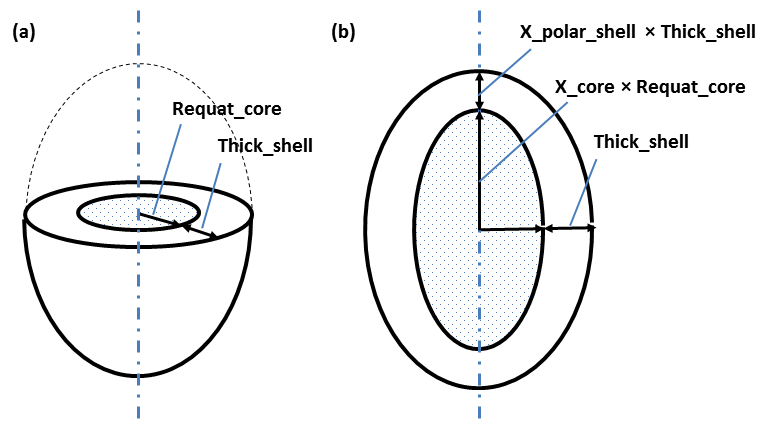
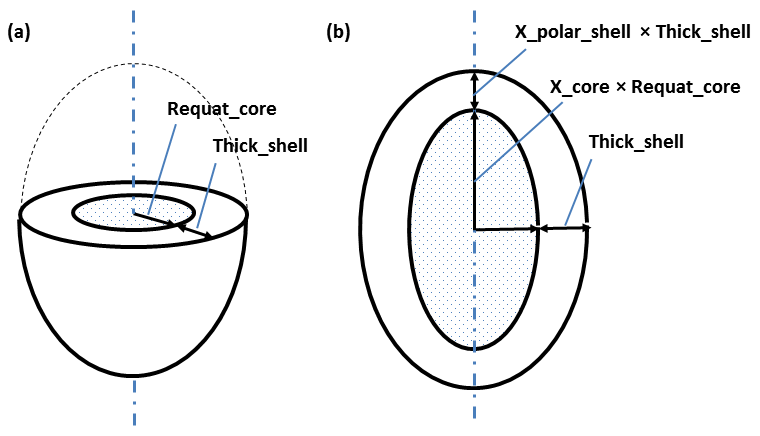
fixes for numref warnings in docu, new equations core_shell_bicelle core_shell_ellipsoid

diff --git a/sasmodels/models/core_shell_ellipsoid.py b/sasmodels/models/core_shell_ellipsoid.py
@@ -11,14 +11,14 @@ independent radii used in the original parameterization of this model.
 .. figure:: img/core_shell_ellipsoid_geometry.png
 
 The geometric parameters of this model are shown in the diagram above, which
-shows (a) a cross section of the circular equator and (b) a cross section through
+shows (a) a cut through at the circular equator and (b) a cross section through
 the poles, of a prolate ellipsoid.
 
 When *X_core < 1* the core is oblate; when *X_core > 1* it is prolate.
 *X_core = 1* is a spherical core.
 
 For a fixed shell thickness *XpolarShell = 1*, to scale the shell thickness
-pro-rata with the radius *XpolarShell = X_core*.
+pro-rata with the radius set or constrain *XpolarShell = X_core*.
 
 When including an $S(q)$, the radius in $S(q)$ is calculated to be that of
 a sphere with the same 2nd virial coefficient of the outer surface of the
@@ -32,6 +32,50 @@ If SAS data are in absolute units, and the SLDs are correct, then scale should
 be the total volume fraction of the "outer particle". When $S(q)$ is introduced
 this moves to the $S(q)$ volume fraction, and scale should then be 1.0,
 or contain some other units conversion factor (for example, if you have SAXS data).
+
+The calculation of intensity follows that for the solid ellipsoid, but with separate
+terms for the core-shell and shell-solvent boundaries.
+
+.. math::
+
+    P(q,\alpha) = \frac{\text{scale}}{V} F^2(q,\alpha) + \text{background}
+
+where
+
+.. math::
+    \begin{align}    
+    F(q,\alpha) = &f(q,radius\_equat\_core,radius\_equat\_core.x\_core,\alpha) \\
+    &+ f(q,radius\_equat\_core + thick\_shell,radius\_equat\_core.x\_core + thick\_shell.x\_polar\_shell,\alpha)
+    \end{align} 
+
+where
+ 
+.. math::
+
+    f(q,R_e,R_p,\alpha) = \frac{3 \Delta \rho V (\sin[qr(R_p,R_e,\alpha)]
+                - \cos[qr(R_p,R_e,\alpha)])}
+                {[qr(R_p,R_e,\alpha)]^3}
+
+and
+
+.. math::
+
+    r(R_e,R_p,\alpha) = \left[ R_e^2 \sin^2 \alpha
+        + R_p^2 \cos^2 \alpha \right]^{1/2}
+
+
+$\alpha$ is the angle between the axis of the ellipsoid and $\vec q$,
+$V = (4/3)\pi R_pR_e^2$ is the volume of the ellipsoid , $R_p$ is the polar radius along the
+rotational axis of the ellipsoid, $R_e$ is the equatorial radius perpendicular
+to the rotational axis of the ellipsoid and $\Delta \rho$ (contrast) is the
+scattering length density difference, either $(sld\_core - sld\_shell)$ or $(sld\_shell - sld\_solvent)$.
+
+For randomly oriented particles:
+
+.. math::
+
+   F^2(q)=\int_{0}^{\pi/2}{F^2(q,\alpha)\sin(\alpha)d\alpha}
+
 
 References
 ----------

diff --git a/sasmodels/models/core_shell_bicelle.py b/sasmodels/models/core_shell_bicelle.py
@@ -41,15 +41,16 @@ $\alpha$ is the angle between the $Q$ vector and the cylinder axis, to give:
 
     I(Q,\alpha) = \frac{\text{scale}}{V} \cdot
         F(Q,\alpha)^2 + \text{background}
+
 where
 
 .. math::
 
-    \begin{align}    
-    F(Q,\alpha) = &\frac{1}{V_t} \bigg[ 
-    (\rho_c - \rho_f) V_c \frac{J_1(QRsin \alpha)}{QRsin\alpha}\frac{2 \cdot QLcos\alpha}{QLcos\alpha} \\
-    &+(\rho_f - \rho_r) V_{c+f} \frac{J_1(QRsin\alpha)}{QRsin\alpha}\frac{2 \cdot Q(L+t_f)cos\alpha}{Q(L+t_f)cos\alpha} \\
-    &+(\rho_r - \rho_s) V_t \frac{J_1(Q(R+t_r)sin\alpha)}{Q(R+t_r)sin\alpha}\frac{2 \cdot Q(L+t_f)cos\alpha}{Q(L+t_f)cos\alpha}
+        \begin{align}    
+    F(Q,\alpha) = &\bigg[ 
+    (\rho_c - \rho_f) V_c \frac{J_1(QRsin \alpha)}{QRsin\alpha}\frac{2 \cdot sin(QLcos\alpha/2)}{QLcos\alpha} \\
+    &+(\rho_f - \rho_r) V_{c+f} \frac{J_1(QRsin\alpha)}{QRsin\alpha}\frac{2 \cdot sin(Q(L/2+t_f)cos\alpha)}{Q(L+2t_f)cos\alpha} \\
+    &+(\rho_r - \rho_s) V_t \frac{J_1(Q(R+t_r)sin\alpha)}{Q(R+t_r)sin\alpha}\frac{2 \cdot sin(Q(L/2+t_f)cos\alpha)}{Q(L+2t_f)cos\alpha}
     \bigg]
     \end{align} 
 
@@ -129,10 +130,10 @@ category = "shape:cylinder"
 # pylint: disable=bad-whitespace, line-too-long
 #             ["name", "units", default, [lower, upper], "type", "description"],
 parameters = [
-    ["radius",         "Ang",       20, [0, inf],    "volume",      "Cylinder core radius"],
+    ["radius",         "Ang",       80, [0, inf],    "volume",      "Cylinder core radius"],
     ["thick_rim",  "Ang",       10, [0, inf],    "volume",      "Rim shell thickness"],
     ["thick_face", "Ang",       10, [0, inf],    "volume",      "Cylinder face thickness"],
-    ["length",         "Ang",      400, [0, inf],    "volume",      "Cylinder length"],
+    ["length",         "Ang",      50, [0, inf],    "volume",      "Cylinder length"],
     ["sld_core",       "1e-6/Ang^2", 1, [-inf, inf], "sld",         "Cylinder core scattering length density"],
     ["sld_face",       "1e-6/Ang^2", 4, [-inf, inf], "sld",         "Cylinder face scattering length density"],
     ["sld_rim",        "1e-6/Ang^2", 4, [-inf, inf], "sld",         "Cylinder rim scattering length density"],

diff --git a/sasmodels/models/cylinder.py b/sasmodels/models/cylinder.py
@@ -13,13 +13,13 @@ given by (Guinier, 1955)
 
 .. math::
 
-    P(q,\alpha) = \frac{\text{scale}}{V} F^2(q) + \text{background}
+    P(q,\alpha) = \frac{\text{scale}}{V} F^2(q,\alpha) + \text{background}
 
 where
 
 .. math::
 
-    F(q) = 2 (\Delta \rho) V
+    F(q,\alpha) = 2 (\Delta \rho) V
            \frac{\sin \left(\tfrac12 qL\cos\alpha \right)}
                 {\tfrac12 qL \cos \alpha}
            \frac{J_1 \left(q R \sin \alpha\right)}{q R \sin \alpha}
@@ -30,9 +30,16 @@ radius of the cylinder, and $\Delta\rho$ (contrast) is the scattering length
 density difference between the scatterer and the solvent. $J_1$ is the
 first order Bessel function.
 
+For randomly oriented particles:
+
+.. math::
+
+    F^2(q)=\int_{0}^{\pi/2}{F^2(q,\alpha)\sin(\alpha)d\alpha}
+
+
 To provide easy access to the orientation of the cylinder, we define the
 axis of the cylinder using two angles $\theta$ and $\phi$. Those angles
-are defined in :numref:`cylinder-angle-definition`.
+are defined in :numref:`cylinder-angle-definition` .
 
 .. _cylinder-angle-definition:
 

diff --git a/sasmodels/models/ellipsoid.py b/sasmodels/models/ellipsoid.py
@@ -35,6 +35,13 @@ rotational axis of the ellipsoid, $R_e$ is the equatorial radius perpendicular
 to the rotational axis of the ellipsoid and $\Delta \rho$ (contrast) is the
 scattering length density difference between the scatterer and the solvent.
 
+For randomly oriented particles:
+
+.. math::
+
+   F^2(q)=\int_{0}^{\pi/2}{F^2(q,\alpha)\sin(\alpha)d\alpha}
+
+
 To provide easy access to the orientation of the ellipsoid, we define
 the rotation axis of the ellipsoid using two angles $\theta$ and $\phi$.
 These angles are defined in the

diff --git a/sasmodels/models/triaxial_ellipsoid.py b/sasmodels/models/triaxial_ellipsoid.py
@@ -35,7 +35,7 @@ where
 To provide easy access to the orientation of the triaxial ellipsoid,
 we define the axis of the cylinder using the angles $\theta$, $\phi$
 and $\psi$. These angles are defined on
-:numref:`triaxial-ellipsoid-angles`.
+:numref:`triaxial-ellipsoid-angles` .
 The angle $\psi$ is the rotational angle around its own $c$ axis
 against the $q$ plane. For example, $\psi = 0$ when the
 $a$ axis is parallel to the $x$ axis of the detector.

diff --git a/sasmodels/models/parallelepiped.py b/sasmodels/models/parallelepiped.py
@@ -9,7 +9,7 @@ Definition
 ----------
 
 | This model calculates the scattering from a rectangular parallelepiped
-| (:numref:`parallelepiped-image`).
+| (\:numref:`parallelepiped-image`\).
 | If you need to apply polydispersity, see also :ref:`rectangular-prism`.
 
 .. _parallelepiped-image:
